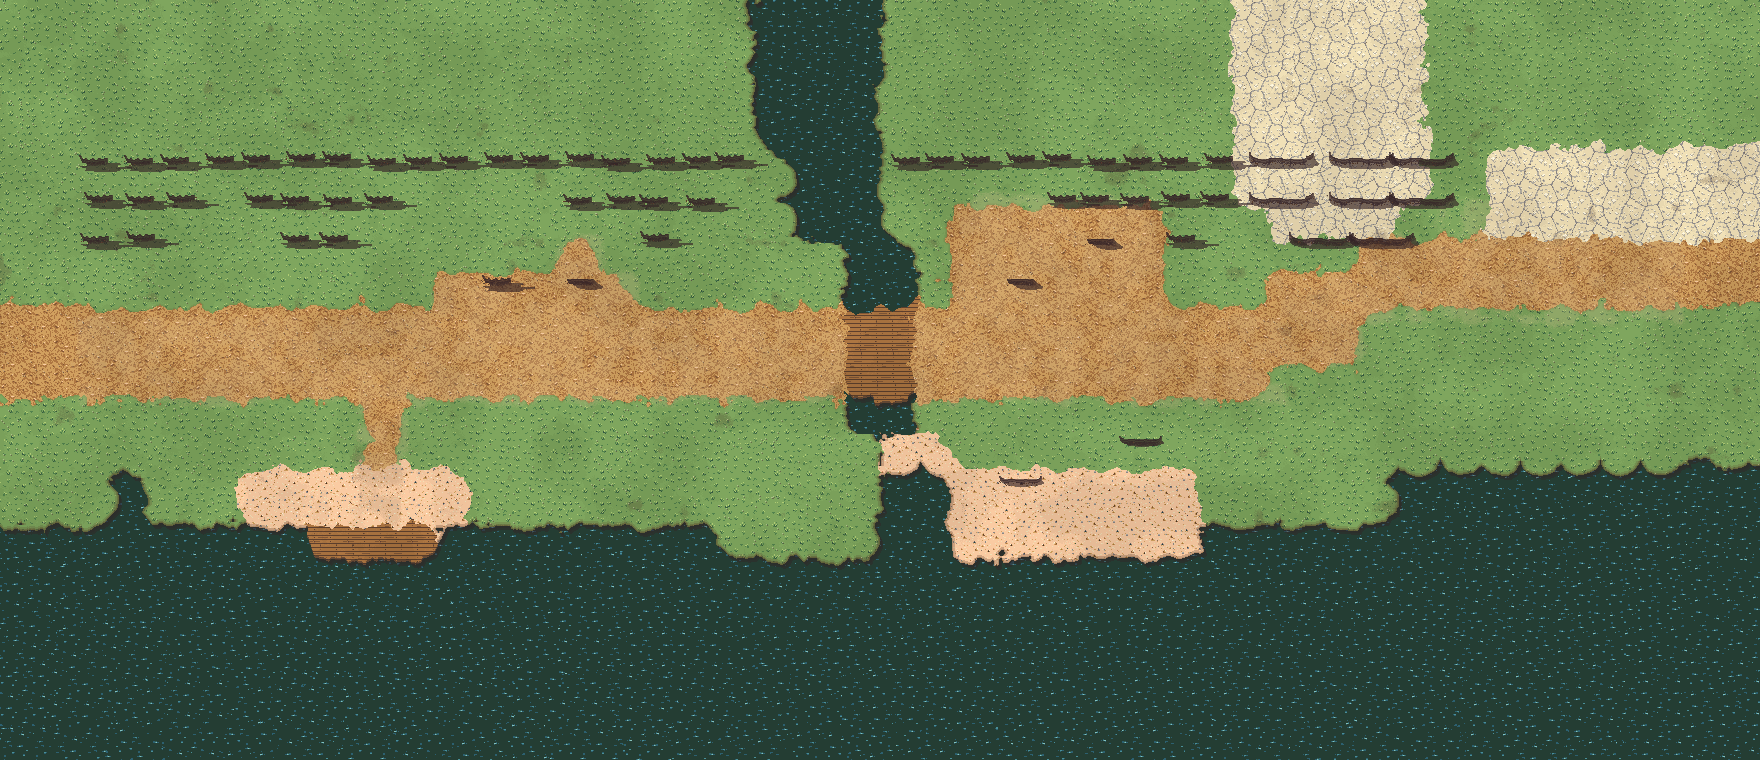
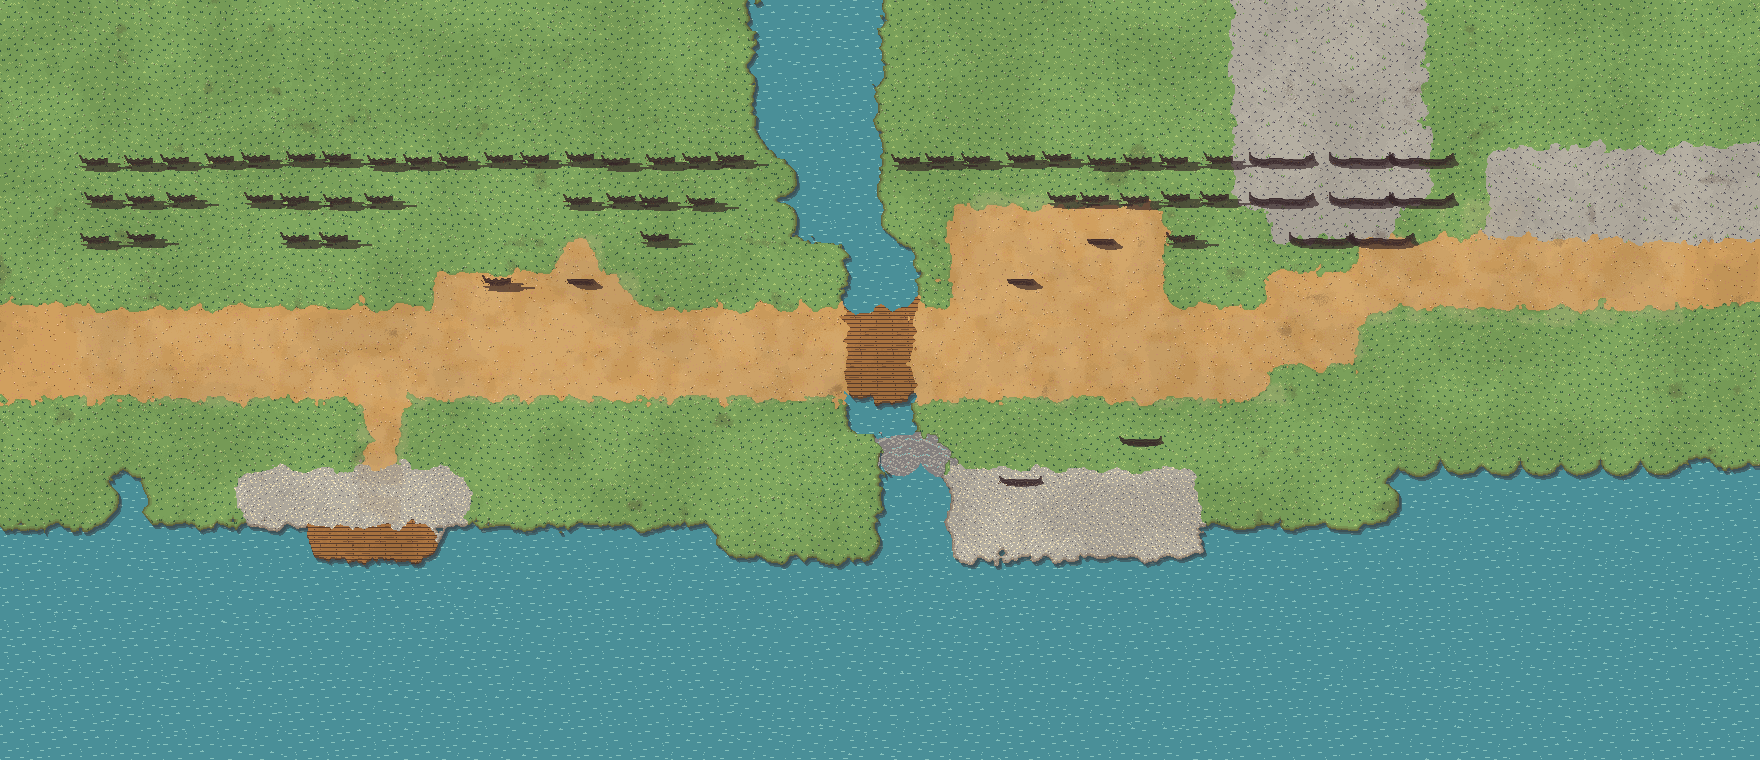
Bake the river road from its own countryside tiles
The stage-4 bake borrowed the harbour's water and quay sand, the parade's earth and the quarry's rock, which read as black water, peach gravel, a speckled road and cracked paving. The board now draws water, road, grass, gravel, the ford's shallows and the rise from the new sets; the coast's boards are byte-identical.

Claude-Session: https://claude.ai/code/session_01H8JDTPYztrZvUL5HBCK6eR

diff --git a/scripts/art/topdown/boards/rg02.ts b/scripts/art/topdown/boards/rg02.ts
@@ -63,20 +63,26 @@ function wang(folder: string, key: string): RgbaImage {
 export type Rg02Tiles = Readonly<Record<RgClass, RgbaImage | undefined>>;
 
 export function rg02Tiles(
-  earth: 'parade' | 'yard' = 'parade',
-  stone: 'parade' | 'rock' = 'parade',
+  earth: 'parade' | 'yard' | 'road' = 'parade',
+  stone: 'parade' | 'rise' = 'parade',
 ): Rg02Tiles {
+  // The countryside's own sets (`tools/rrtiles.py`): the river road's cart road on meadow, its slow river, the ford's
+  // gravel over shallows, and the lookout's grey rock. The coast's boards keep the harbour, quay and parade sets.
+  const country = earth === 'road';
   return {
-    [RG.water]: wang('rg02_quay', 'LLLL'),
+    [RG.water]: country ? wang('rg02_river', 'LLLL') : wang('rg02_quay', 'LLLL'),
     [RG.deck]: wang('rg02_planks2', 'UUUU'),
-    [RG.sand]: wang('rg02_quay', 'UUUU'),
-    [RG.earth]: wang(earth === 'yard' ? 'rg02_yard' : 'rg02_parade', 'LLLL'),
-    // the coast's flagstones, or in open country the bare pale rock of the quarry's floor
-    [RG.stone]: stone === 'rock' ? wang('q_floor32', 'LLLL') : wang('rg02_parade', 'UUUU'),
-    [RG.puddle]: wang('rg02_yard', 'UUUU'),
+    [RG.sand]: country ? wang('rg02_ford', 'UUUU') : wang('rg02_quay', 'UUUU'),
+    [RG.earth]: wang(
+      earth === 'road' ? 'rg02_road' : earth === 'yard' ? 'rg02_yard' : 'rg02_parade',
+      'LLLL',
+    ),
+    [RG.stone]: stone === 'rise' ? wang('rg02_rise', 'UUUU') : wang('rg02_parade', 'UUUU'),
+    // the yard's puddle, or in the country the ford's clear shallows over pebbles
+    [RG.puddle]: country ? wang('rg02_ford', 'LLLL') : wang('rg02_yard', 'UUUU'),
     [RG.void]: undefined,
-    // the countryside's grass: Ba Dan's plain sunlit grass, the calmest under pieces
-    [RG.grass]: load(`${ASSETS}/tiles/gc32/c0000.png`),
+    // the countryside's meadow grass (the coast never lays it)
+    [RG.grass]: country ? wang('rg02_road', 'UUUU') : load(`${ASSETS}/tiles/gc32/c0000.png`),
   };
 }
 
@@ -144,9 +150,9 @@ export interface Rg02BoardConfig {
   readonly folder: string;
   readonly terrain: Rg02Terrain;
   readonly layout: TopDownLayout;
-  readonly earth?: 'parade' | 'yard';
-  /** What the stone class is drawn as: the coast's flagstones (the default) or bare rock (the river road's cliff). */
-  readonly stone?: 'parade' | 'rock';
+  readonly earth?: 'parade' | 'yard' | 'road';
+  /** What the stone class is drawn as: the coast's flagstones (the default) or the river road's grey rock. */
+  readonly stone?: 'parade' | 'rise';
   /** The ground's wear: cells walked into a lighter path, and how much of the open ground lies wet. */
   readonly wear?: {
     readonly paths?: readonly (readonly [number, number])[];

diff --git a/scripts/art/topdown/boards/rg02boards.ts b/scripts/art/topdown/boards/rg02boards.ts
@@ -95,7 +95,8 @@ export const RG02_BOARDS: readonly TopDownBoard[] = [
     folder: 'river-road',
     terrain: RIVER_ROAD_TERRAIN,
     layout: RIVER_ROAD_TOPDOWN_LAYOUT,
-    stone: 'rock',
+    earth: 'road',
+    stone: 'rise',
     // the road, its pull-offs, the landing's footpath and the lookout's track; a dry morning, so little lies wet
     wear: { paths: RIVER_ROAD_WORN, wet: 0.08, soft: true },
   }),

diff --git a/src/content/scenes/rg02.topdown.ts b/src/content/scenes/rg02.topdown.ts
@@ -686,7 +686,7 @@ export const RIVER_ROAD_TERRAIN = new Rg02Terrain({
     '=': RG.earth,
     F: RG.earth,
     ':': RG.sand,
-    '~': RG.sand,
+    '~': RG.puddle, // the ford's clear shallows over pebbles
     W: RG.water,
     w: RG.deck,
     X: RG.stone,
